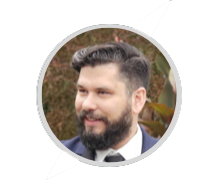
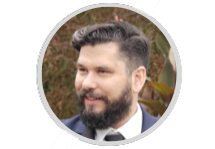
centered team members on larger screen

Changed region(s): [[0.1674, 0.0, 0.8651, 0.6711], [0.1953, 0.698, 0.8093, 0.9933], [0.2791, 0.5906, 0.307, 0.6174]]

diff --git a/src/styles/css/main.css b/src/styles/css/main.css
@@ -591,15 +591,11 @@ h5 {
 }
 .Members-image {
   text-align: center;
-  flex: 1 1 25%;
 }
 @media only screen and (max-width: 786px) {
   .Members-image {
     flex: 1 1 100%;
   }
-}
-.Members-content {
-  flex: 1 0 75%;
 }
 .Members-content-icons i {
   margin-right: 0.5rem;
@@ -613,6 +609,7 @@ h5 {
 }
 .Members-content-description {
   font-size: 0.8rem;
+  width: 40vw;
 }
 @media only screen and (max-width: 786px) {
   .Members-content {
@@ -620,6 +617,7 @@ h5 {
   }
   .Members-content-description {
     text-align: left;
+    width: 100%;
   }
 }
 

diff --git a/src/styles/sass/pages/_ourteam.scss b/src/styles/sass/pages/_ourteam.scss
@@ -11,14 +11,13 @@
   margin: 1rem;
   &-image{
     text-align:center;
-    flex: 1 1 25%;
     @media only screen and (max-width: 786px) {
       flex: 1 1 100%;
     }
   }
 
   &-content{
-    flex: 1 0 75%;
+
     &-icons{
       i {
         margin-right: 0.5rem;
@@ -33,11 +32,13 @@
     }
     &-description{
       font-size: 0.8rem;
+      width: 40vw;
     }
     @media only screen and (max-width: 786px) {
       text-align: center;
       &-description{
         text-align: left;
+        width: 100%;
       }
     }
   }

diff --git a/src/components/Team/Member.jsx b/src/components/Team/Member.jsx
@@ -1,5 +1,6 @@
 import React from 'react'
 
+
 export const Member = ({ name, desc, image, position }) => (
   <div className="Members">
     <div className="Members-image">
@@ -14,5 +15,6 @@ export const Member = ({ name, desc, image, position }) => (
       </div>
       <p className="Members-content-description">{desc}</p>
     </div>
+
   </div>
 )

diff --git a/src/components/Team/index.js b/src/components/Team/index.js
@@ -17,7 +17,9 @@ export default class TeamPage extends React.Component {
     return(
       <React.Fragment>
         <h1 className='ourteam-header'>Team Members</h1>
-        {members}
+        <div className="ourteam-members"> 
+          {members}
+        </div>
       </React.Fragment>
     )
   }
